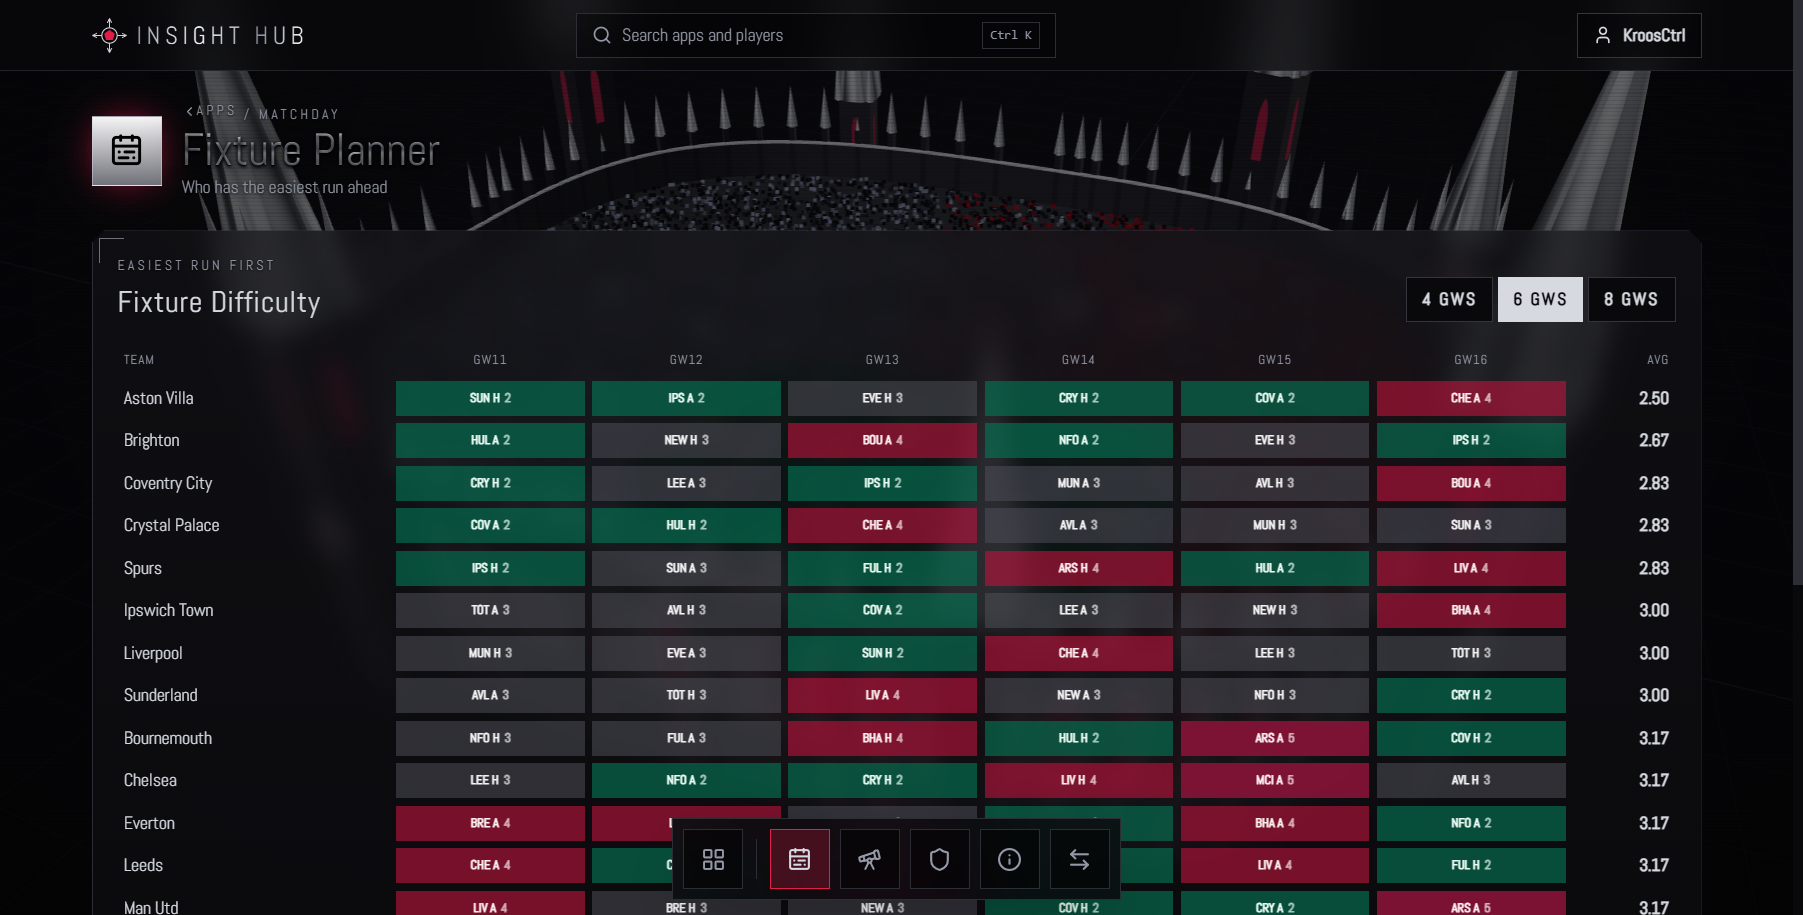
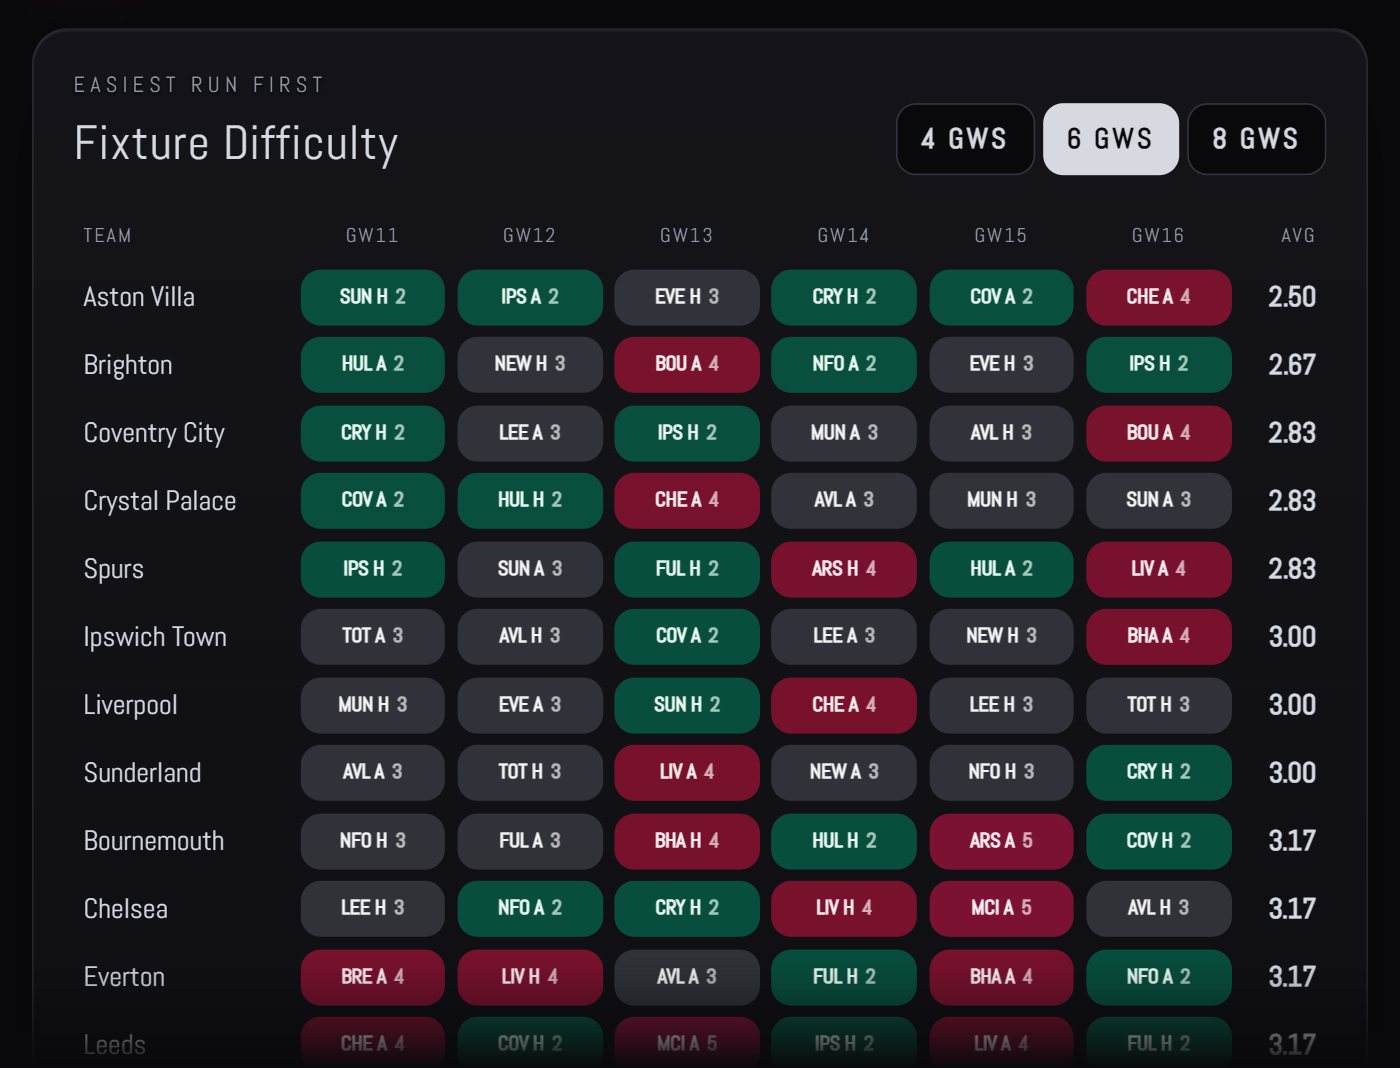
README: lead with the analytics tools
Rewrite the README around what the tools do (differentials, head to
head, chart builder, form forecast, price watch, captain picker,
transfer ledger, fixture planner, title race) with new screenshots
captured tight enough to read at GitHub's column width. The 3D stadium
is now a single line under "How it's built" and its screenshots are gone.

diff --git a/src/pages/Players.tsx b/src/pages/Players.tsx
@@ -326,7 +326,7 @@ export function ChartBuilder({ fpl }: AppProps) {
     : [];
 
   return (
-    <Section eyebrow="Up to 6 players, one measure" title="Chart Builder">
+    <Section eyebrow="Up to 6 players, one measure" title="Season on one chart">
       <div className="mb-4 grid gap-3 md:grid-cols-[1fr_16rem_auto]">
         <div className="relative">
           <Input aria-label="Add a player to the chart" placeholder={ids.length >= 6 ? "Remove a player to add another" : "Add a player…"} disabled={ids.length >= 6} value={query} onChange={(e) => setQuery(e.target.value)} />

diff --git a/README.md b/README.md
@@ -1,53 +1,87 @@
 # FPL Insight Hub
 
-Live Fantasy Premier League analytics with in-browser machine learning and a three.js front end.
+Analytics for Fantasy Premier League managers. The official app tells you what happened; this is for deciding what to do next: who is underowned, who is about to change price, and whether your last transfer actually paid off.
 
-![Launcher](docs/launcher.png)
+It runs on live FPL data and the models run in your browser. Sign in with a public FPL team ID (no password), or try it as a guest.
 
-## What it does
+## The tools
 
-The home screen is a Spotlight-style launcher: search apps and players (or type a team or league ID), with every feature as its own app. `Ctrl K` opens search anywhere, and a dock keeps your recent apps one click away.
+### Differentials: strong players few managers own
 
-| Category | Apps |
-|---|---|
-| **Matchday** | Gameweek, Fixture Planner, League Table |
-| **My Club** | Squad, Captain Picker, Chip Planner, Transfer Ledger, Season Trends |
-| **Scouting** | Player Explorer, Chart Builder, Differentials, Form Forecast, Price Watch |
-| **Rivals** | Mini-Leagues (standings, insights, title race) |
+K-means clustering sorts every player with regular minutes into four tiers on six stats (form, points per game, xGI per 90, ICT per 90, value, expected points). The picker then lists top-tier players under an ownership limit you set, and says why each one made the cut.
 
-Sign in with a public FPL ID (no password), or click **Try as guest**.
+![Differentials](docs/differentials.png)
 
-There is also a **Score** button. Each press is a goal; keep pressing and the celebrations escalate until the cathedral starts shedding masonry, repair crews run out to fix it, and eventually the great tower comes down and has to be rebuilt.
+### Head to Head: compare up to four players
 
-Behind every screen a stone cathedral stadium plays a looping match on a rainy night, filmed from a circling blimp, with parks, squares, a low-poly city and neon spires around it. The match cycles through four passages of play; home goals send fire roaring out of the spires.
+A radar scores each player against the best in the game on six measures, next to the raw numbers with the leader in each row highlighted.
 
-![Stadium](docs/stadium.png)
+![Head to head comparison](docs/compare.png)
 
-| Squad | Form Forecast |
-|---|---|
-| ![Squad](docs/my-team.png) | ![Form forecast](docs/insights.png) |
+### Chart Builder: any players, any measure
 
-![Fixture difficulty](docs/fixtures.png)
+Plot up to six players across the season on points, xG, xA, minutes, price, ownership and more, as a running total or gameweek by gameweek.
+
+![Chart builder](docs/chart-builder.png)
+
+### And the rest of the toolbox
+
+<table>
+  <tr>
+    <td width="50%" valign="top">
+      <img src="docs/form-forecast.png" alt="Form forecast"><br>
+      <b>Form Forecast</b><br>
+      Projects a player's next three gameweeks with a likely range, from recent scores, trend and upcoming fixtures.
+    </td>
+    <td width="50%" valign="top">
+      <img src="docs/price-watch.png" alt="Price watch"><br>
+      <b>Price Watch</b><br>
+      The chance each player rises or falls £0.1m tonight, from transfer pressure relative to ownership.
+    </td>
+  </tr>
+  <tr>
+    <td valign="top">
+      <img src="docs/captain.png" alt="Captain picker"><br>
+      <b>Captain Picker</b><br>
+      Ranks your fifteen for the armband on expected points, form, fixture, venue and availability.
+    </td>
+    <td valign="top">
+      <img src="docs/transfer-ledger.png" alt="Transfer ledger"><br>
+      <b>Transfer Ledger</b><br>
+      Every transfer you made, scored: points from the player you bought against the one you sold.
+    </td>
+  </tr>
+  <tr>
+    <td valign="top">
+      <img src="docs/fixtures.png" alt="Fixture planner"><br>
+      <b>Fixture Planner</b><br>
+      All twenty clubs ordered by how easy their next four, six or eight fixtures are.
+    </td>
+    <td valign="top">
+      <img src="docs/title-race.png" alt="Title race"><br>
+      <b>Title Race</b><br>
+      Your mini-league as a race: how far each rival sat behind the leader after every gameweek.
+    </td>
+  </tr>
+</table>
+
+Also inside: a live gameweek dashboard, your squad on the pitch with live points, a chip planner, season trends, and a search launcher (`Ctrl K`) that finds any tool, player, team or league.
 
 ## How it's built
 
-- **React 18 + TypeScript (strict)**, Vite 8, Tailwind, TanStack Query, Recharts
-- **three.js** scenes written by hand, all procedural (no model files): a gothic stadium with instanced arches, buttresses and a great tower, canvas-drawn stone, a city of instanced blocks, rain, a 20,000-fan crowd and spire fire as shader-driven points, a scripted 22-player match loop, and a truncated-icosahedron football
-- **Models run client-side on live data**, each a small tested module in [`src/lib/ml`](src/lib/ml):
-  - *Differentials*: k-means clustering on six z-scored features, then low-ownership picks from the top clusters
-  - *Price changes*: transfer pressure relative to ownership, blended with FPL's progress-to-threshold figure
-  - *Form forecast*: exponentially weighted level plus a damped trend, adjusted for fixture difficulty
-  - *Captain ranking*: expected points weighted by fixture, venue, form and availability
-- **Resilient data layer**: the FPL API has no CORS headers, so requests go through a same-origin proxy and fall back to a Supabase edge function. A `/status` page tests every endpoint through both.
+- **React 18 + TypeScript (strict)**, Vite, Tailwind, TanStack Query, Recharts.
+- **The models are plain TypeScript, run client-side and unit-tested** ([`src/lib/ml`](src/lib/ml)): k-means clustering, an exponentially weighted forecast with a damped trend, a transfer-pressure price model and a captain score. There is no backend to host.
+- **Resilient data layer.** The FPL API sends no CORS headers, so requests go through a same-origin proxy and fall back to a Supabase edge function. A status page tests every endpoint through both routes.
+- **A 3D backdrop in hand-written three.js**: a procedurally generated stadium with a looping match behind every screen, built without model files.
 
-```
+```text
 src/
   lib/fpl/     API client, typed hooks, fixtures and league-table logic
   lib/ml/      clustering, price, form and captain models (+ tests)
-  apps.tsx     app registry: routes, categories, search keywords, suggestions
-  three/       WebGL stage, stadium and match loop, procedural models
-  pages/       the apps, plus the launcher
-  components/  layout (top bar, Spotlight, dock), shared UI, chart theme
+  apps.tsx     tool registry: routes, categories, search keywords
+  pages/       the tools, plus the launcher
+  components/  layout, search, shared UI, chart theme
+  three/       WebGL stage and stadium scene
 ```
 
 ## Run it
@@ -59,8 +93,8 @@ npm run dev        # http://localhost:8080
 
 No keys or database needed: the dev server proxies the public FPL API.
 
-| Command | |
-|---|---|
+| Command | What it does |
+| --- | --- |
 | `npm test` | Unit tests (Vitest) |
 | `npm run typecheck` | Strict TypeScript |
 | `npm run lint` | ESLint |
